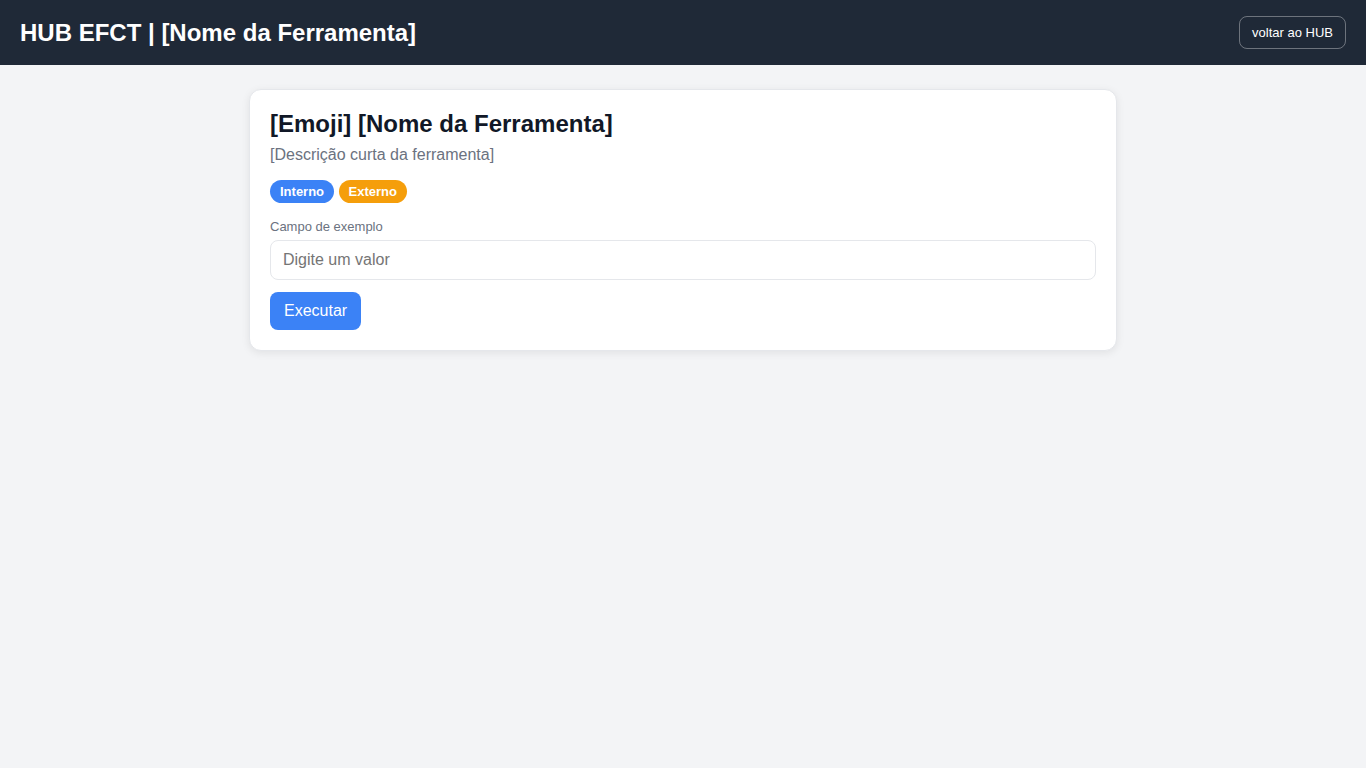
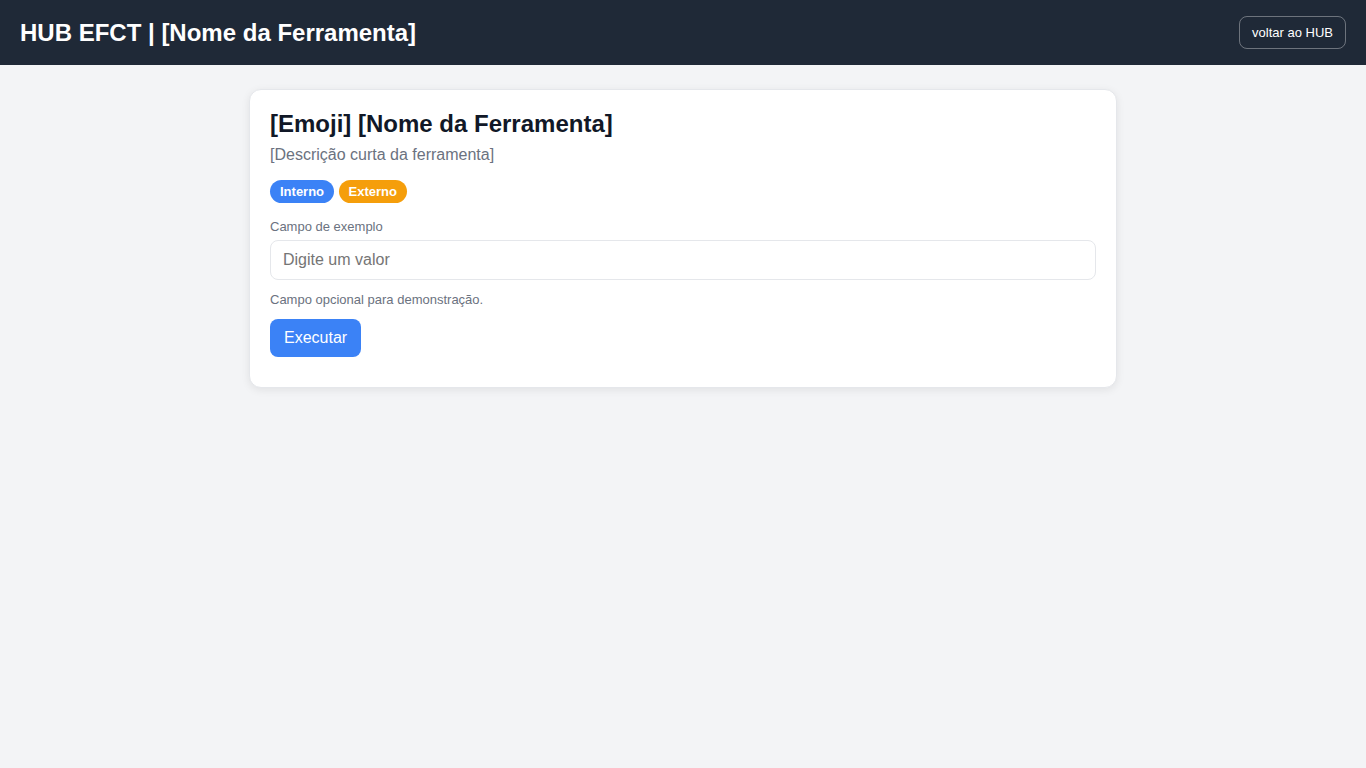
chore: improve accessibility in HTML starter template
Agent-Logs-Url: https://github.com/maribondan/Automa-es---efct/sessions/10e18cf7-5bec-4554-a19a-de882e52602e

Changed region(s): [[0.1845, 0.375, 0.369, 0.4688]]

diff --git a/index.html b/index.html
@@ -106,7 +106,7 @@
 <body>
   <header>
     <div class="header-title">HUB EFCT | [Nome da Ferramenta]</div>
-    <a class="hub-link" href="https://effect-contratos-api.onrender.com" target="_blank" rel="noopener noreferrer">voltar ao HUB</a>
+    <a class="hub-link" href="https://effect-contratos-api.onrender.com" target="_blank" rel="noopener noreferrer" aria-label="Voltar para o HUB EFCT principal">voltar ao HUB</a>
   </header>
 
   <main>
@@ -118,13 +118,20 @@
 
       <div style="margin-top:16px;">
         <label for="campo">Campo de exemplo</label>
-        <input id="campo" placeholder="Digite um valor" />
+        <input id="campo" placeholder="Digite um valor" aria-describedby="campo-ajuda" aria-required="false" />
+        <div id="campo-ajuda" style="font-size:13px;color:#6B7280;margin-bottom:12px;">Campo opcional para demonstração.</div>
       </div>
 
       <div class="actions">
-        <button type="button" onclick="alert('Ação principal da ferramenta')">Executar</button>
+        <button id="executar" type="button" aria-label="Executar ação principal da ferramenta">Executar</button>
       </div>
+      <div id="status" style="font-size:13px;color:#6B7280;margin-top:10px;" role="status" aria-live="polite"></div>
     </section>
   </main>
+  <script>
+    document.getElementById('executar').addEventListener('click', function () {
+      document.getElementById('status').textContent = 'Ação principal executada.';
+    });
+  </script>
 </body>
 </html>
